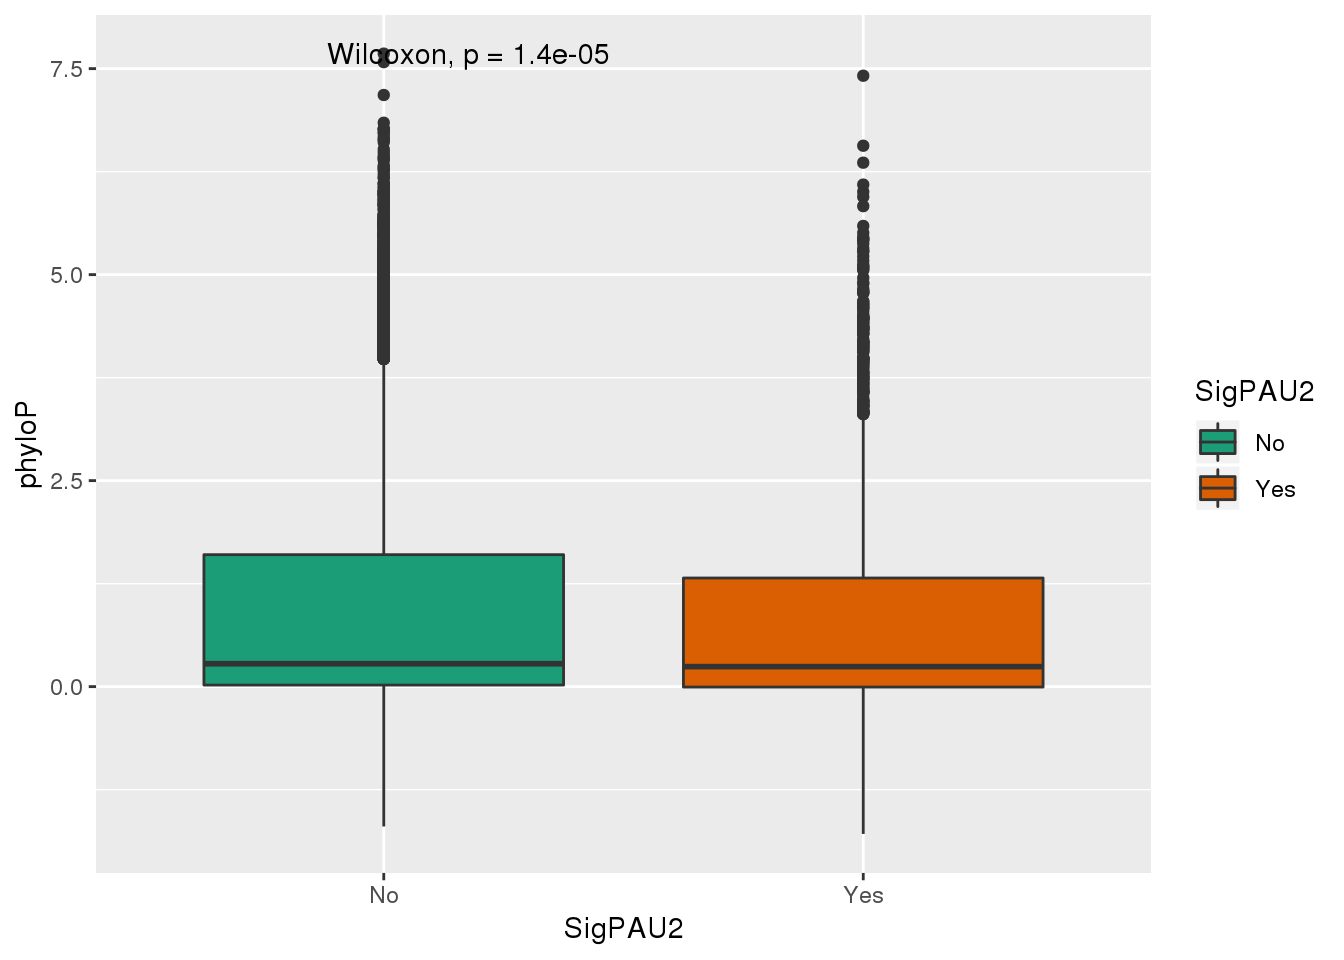
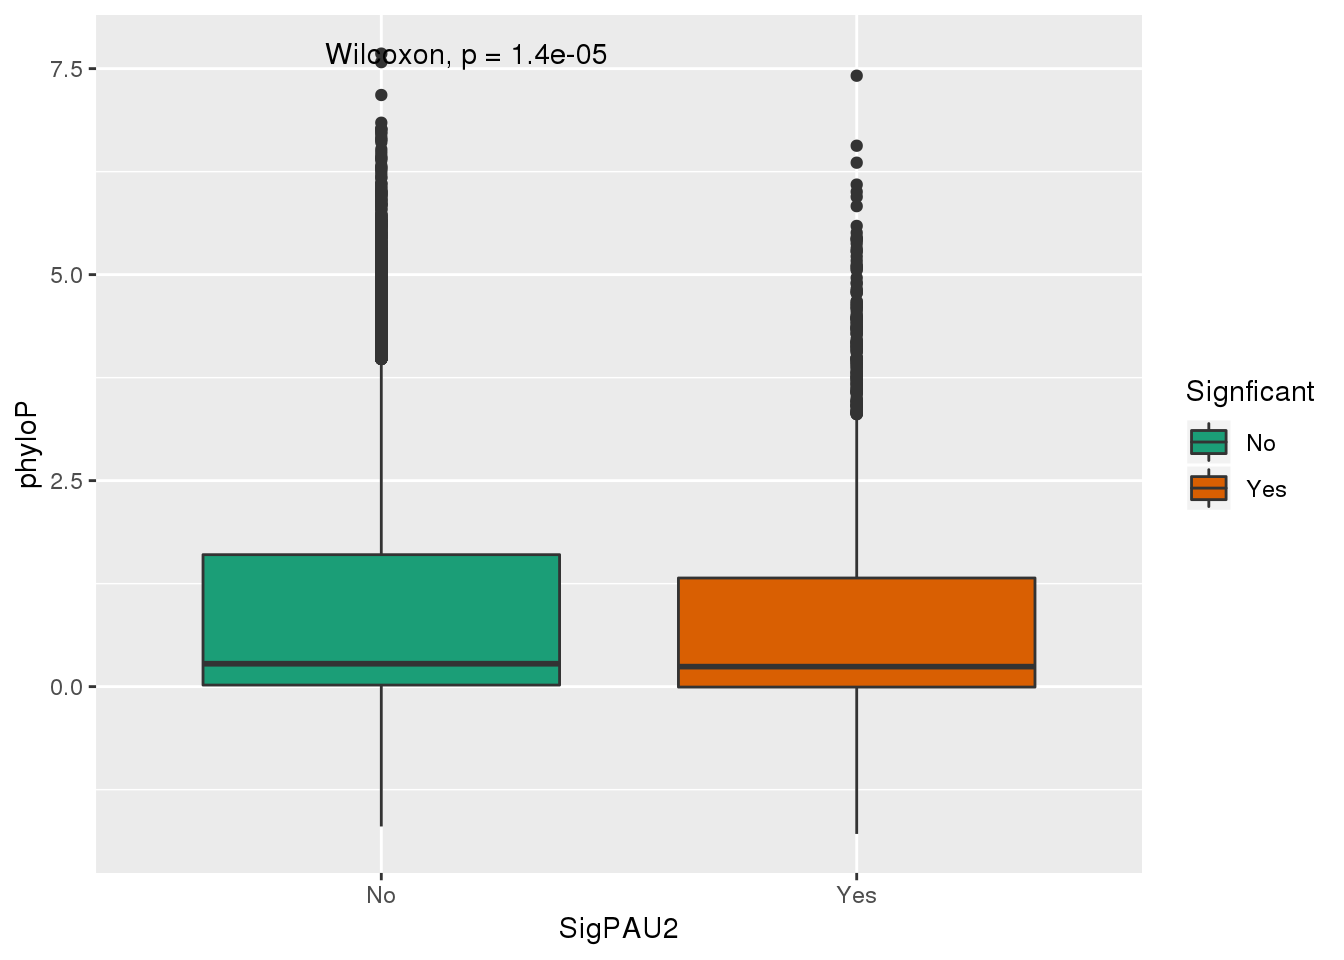
Build site.

diff --git a/docs/ExploredAPA_DF.html b/docs/ExploredAPA_DF.html
@@ -434,10 +434,10 @@ This reproducible <a href="http://rmarkdown.rstudio.com">R Markdown</a> analysis
 <div class="panel panel-default">
 <div class="panel-heading">
 <p class="panel-title">
-<a data-toggle="collapse" data-parent="#workflowr-checks" href="#strongRepositoryversionstrongahrefhttpsgithubcombrimittlemanComparativeAPAtree10d6e05599cd52e52dd01731f63567182ab7e22atargetblank10d6e05a"> <span class="glyphicon glyphicon-ok text-success" aria-hidden="true"></span> <strong>Repository version:</strong> <a href="https://github.com/brimittleman/Comparative_APA/tree/10d6e05599cd52e52dd01731f63567182ab7e22a" target="_blank">10d6e05</a> </a>
+<a data-toggle="collapse" data-parent="#workflowr-checks" href="#strongRepositoryversionstrongahrefhttpsgithubcombrimittlemanComparativeAPAtreefea5899863b1d9a63c78c78cc3ad0d0b00c7dfbdtargetblankfea5899a"> <span class="glyphicon glyphicon-ok text-success" aria-hidden="true"></span> <strong>Repository version:</strong> <a href="https://github.com/brimittleman/Comparative_APA/tree/fea5899863b1d9a63c78c78cc3ad0d0b00c7dfbd" target="_blank">fea5899</a> </a>
 </p>
 </div>
[2 lines of base64/hex data omitted]
 <div class="panel-body">
 <p>
 Great! You are using Git for version control. Tracking code development and connecting the code version to the results is critical for reproducibility. The version displayed above was the version of the Git repository at the time these results were generated. <br><br> Note that you need to be careful to ensure that all relevant files for the analysis have been committed to Git prior to generating the results (you can use <code>wflow_publish</code> or <code>wflow_git_commit</code>). workflowr only checks the R Markdown file, but you know if there are other scripts or data files that it depends on. Below is the status of the Git repository when the results were generated:
@@ -1071,6 +1071,7 @@ Unstaged changes:
     Modified:   analysis/annotationInfo.Rmd
     Modified:   analysis/comp2apaQTLPAS.Rmd
     Modified:   analysis/correlationPhenos.Rmd
+    Modified:   analysis/dAPAandapaQTL_DF.Rmd
     Modified:   analysis/establishCutoffs.Rmd
     Modified:   analysis/investigatePantro5.Rmd
     Modified:   analysis/multiMap.Rmd
@@ -1114,6 +1115,40 @@ Message
 </tr>
 </thead>
 <tbody>
+<tr>
+<td>
+Rmd
+</td>
+<td>
+<a href="https://github.com/brimittleman/Comparative_APA/blob/fea5899863b1d9a63c78c78cc3ad0d0b00c7dfbd/analysis/ExploredAPA_DF.Rmd" target="_blank">fea5899</a>
+</td>
+<td>
+brimittleman
+</td>
+<td>
+2020-01-26
+</td>
+<td>
+modify plots for CM
+</td>
+</tr>
+<tr>
+<td>
+html
+</td>
+<td>
+<a href="https://rawcdn.githack.com/brimittleman/Comparative_APA/55cf50b49387cf012b53c68269b5661964106831/docs/ExploredAPA_DF.html" target="_blank">55cf50b</a>
+</td>
+<td>
+brimittleman
+</td>
+<td>
+2020-01-26
+</td>
+<td>
+Build site.
+</td>
+</tr>
 <tr>
 <td>
 Rmd
@@ -1455,7 +1490,7 @@ mkdir ../data/DNDS
 <pre class="r"><code>phylores=read.table(&quot;../data/PhyloP/PAS_phyloP.txt&quot;, col.names = c(&quot;chr&quot;,&quot;start&quot;,&quot;end&quot;, &quot;phyloP&quot;), stringsAsFactors = F) %&gt;% drop_na()
 NucReswPhy=read.table(&quot;../data/DiffIso_Nuclear_DF/AllPAS_withGeneSig.txt&quot;, header = T, stringsAsFactors = F) %&gt;% inner_join(phylores, by=c(&quot;chr&quot;,&quot;start&quot;,&quot;end&quot;))</code></pre>
 <p>40756 have results of the 40776 Plot:</p>
-<pre class="r"><code>ggplot(NucReswPhy,aes(y=phyloP, x=SigPAU2,fill=SigPAU2)) + geom_boxplot() + stat_compare_means()+ scale_fill_brewer(palette = &quot;Dark2&quot;)</code></pre>
+<pre class="r"><code>ggplot(NucReswPhy,aes(y=phyloP, x=SigPAU2,fill=SigPAU2)) + geom_boxplot() + stat_compare_means()+ scale_fill_brewer(palette = &quot;Dark2&quot;, name=&quot;Signficant&quot;)</code></pre>
 <p><img src="figure/ExploredAPA_DF.Rmd/unnamed-chunk-12-1.png" width="672" style="display: block; margin: auto;" /></p>
 <p>
 <button type="button" class="btn btn-default btn-xs btn-workflowr btn-workflowr-fig" data-toggle="collapse" data-target="#fig-unnamed-chunk-12-1">
@@ -1494,7 +1529,7 @@ brimittleman
 </table>
 </div>
 </div>
-<pre class="r"><code>ggplot(NucReswPhy,aes(x=phyloP, by=SigPAU2, fill=SigPAU2)) + geom_density(alpha=.5) + scale_fill_brewer(palette = &quot;Dark2&quot;)</code></pre>
+<pre class="r"><code>ggplot(NucReswPhy,aes(x=phyloP, by=SigPAU2, fill=SigPAU2)) + geom_density(alpha=.5) + scale_fill_brewer(palette = &quot;Dark2&quot;, name=&quot;Signficant PAS&quot;) + labs(title=&quot;Mean PhyloP scores for tested PAS&quot;) + annotate(&quot;text&quot;,label=&quot;Wilcoxan, p=1.4e -5&quot;,x=6,y=.75)</code></pre>
 <p><img src="figure/ExploredAPA_DF.Rmd/unnamed-chunk-13-1.png" width="672" style="display: block; margin: auto;" /></p>
 <p>
 <button type="button" class="btn btn-default btn-xs btn-workflowr btn-workflowr-fig" data-toggle="collapse" data-target="#fig-unnamed-chunk-13-1">
@@ -1626,10 +1661,85 @@ write.table(genes, &quot;../data/PhyloP/NuclearSigGenes.bed&quot;, col.names = F
 <pre class="r"><code>phyloresG=read.table(&quot;../data/PhyloP/PAS_phyloP_genes.txt&quot;, col.names = c(&quot;chr&quot;,&quot;start&quot;,&quot;end&quot;, &quot;phyloP&quot;), stringsAsFactors = F) %&gt;% drop_na()
 GenesPhy=genesWithSig %&gt;% inner_join(phyloresG, by=c(&quot;chr&quot;,&quot;start&quot;,&quot;end&quot;))</code></pre>
 <p>I lose 2237 from NAs in the values.</p>
-<pre class="r"><code>ggplot(GenesPhy,aes(x=phyloP, by=Sig, fill=Sig)) + geom_density(alpha=.5) + scale_fill_brewer(palette = &quot;Dark2&quot;)</code></pre>
+<pre class="r"><code>ggplot(GenesPhy,aes(x=phyloP, by=Sig, fill=Sig)) + geom_density(alpha=.5)+ scale_fill_brewer(palette = &quot;Dark2&quot;, name=&quot;Gene with \nSignificant PAS&quot;) + labs(title=&quot;Mean PhyloP scores for tested Genes&quot;) + annotate(&quot;text&quot;,label=&quot;Wilcoxan, p=2.6.4e -12&quot;,x=4,y=1.5)</code></pre>
 <p><img src="figure/ExploredAPA_DF.Rmd/unnamed-chunk-22-1.png" width="672" style="display: block; margin: auto;" /></p>
+<p>
+<button type="button" class="btn btn-default btn-xs btn-workflowr btn-workflowr-fig" data-toggle="collapse" data-target="#fig-unnamed-chunk-22-1">
+Past versions of unnamed-chunk-22-1.png
+</button>
+</p>
+<div id="fig-unnamed-chunk-22-1" class="collapse">
+<div class="table-responsive">
+<table class="table table-condensed table-hover">
+<thead>
+<tr>
+<th>
+Version
+</th>
+<th>
+Author
+</th>
+<th>
+Date
+</th>
+</tr>
+</thead>
+<tbody>
+<tr>
+<td>
+<a href="https://github.com/brimittleman/Comparative_APA/blob/55cf50b49387cf012b53c68269b5661964106831/docs/figure/ExploredAPA_DF.Rmd/unnamed-chunk-22-1.png" target="_blank">55cf50b</a>
+</td>
+<td>
+brimittleman
+</td>
+<td>
+2020-01-26
+</td>
+</tr>
+</tbody>
+</table>
+</div>
+</div>
 <pre class="r"><code>ggplot(GenesPhy,aes(y=phyloP, x=Sig,fill=Sig)) + geom_boxplot() + stat_compare_means()+ scale_fill_brewer(palette = &quot;Dark2&quot;)</code></pre>
-<p><img src="figure/ExploredAPA_DF.Rmd/unnamed-chunk-22-2.png" width="672" style="display: block; margin: auto;" /> These are also genes with a shift. See if more likely to have - value.</p>
+<p><img src="figure/ExploredAPA_DF.Rmd/unnamed-chunk-22-2.png" width="672" style="display: block; margin: auto;" /></p>
+<p>
+<button type="button" class="btn btn-default btn-xs btn-workflowr btn-workflowr-fig" data-toggle="collapse" data-target="#fig-unnamed-chunk-22-2">
+Past versions of unnamed-chunk-22-2.png
+</button>
+</p>
+<div id="fig-unnamed-chunk-22-2" class="collapse">
+<div class="table-responsive">
+<table class="table table-condensed table-hover">
+<thead>
+<tr>
+<th>
+Version
+</th>
+<th>
+Author
+</th>
+<th>
+Date
+</th>
+</tr>
+</thead>
+<tbody>
+<tr>
+<td>
+<a href="https://github.com/brimittleman/Comparative_APA/blob/55cf50b49387cf012b53c68269b5661964106831/docs/figure/ExploredAPA_DF.Rmd/unnamed-chunk-22-2.png" target="_blank">55cf50b</a>
+</td>
+<td>
+brimittleman
+</td>
+<td>
+2020-01-26
+</td>
+</tr>
+</tbody>
+</table>
+</div>
+</div>
+<p>These are also genes with a shift. See if more likely to have - value.</p>
 <pre class="r"><code>x=nrow(GenesPhy %&gt;% filter(Sig==&quot;Yes&quot;, phyloP&lt;0))
 m= nrow(GenesPhy %&gt;% filter(phyloP&lt;0))
 n=nrow(GenesPhy %&gt;% filter(phyloP&gt;=0))
@@ -1671,7 +1781,45 @@ summary(NucResDNDS_fix$DNDSratio)</code></pre>
 2 yes           1827</code></pre>
 <p>Plot this.</p>
 <pre class="r"><code>ggplot(NucResDNDS_fix,aes(y=log10(DNDSratio+1), x=SigPASinGene, fill=SigPASinGene))+ geom_boxplot() + stat_compare_means( label.y.npc = &quot;middle&quot;) + scale_fill_brewer(palette = &quot;Dark2&quot;) + labs(x=&quot;dAPA in Nuclear&quot;) + annotate(&quot;text&quot;, label=&quot;Yes=1827 \n No=5481&quot;, y=1.8,x=2)</code></pre>
-<p><img src="figure/ExploredAPA_DF.Rmd/unnamed-chunk-27-1.png" width="672" style="display: block; margin: auto;" /> I can ask if they are more likely to be above 1. I can do this with a hypergeo.</p>
+<p><img src="figure/ExploredAPA_DF.Rmd/unnamed-chunk-27-1.png" width="672" style="display: block; margin: auto;" /></p>
+<p>
+<button type="button" class="btn btn-default btn-xs btn-workflowr btn-workflowr-fig" data-toggle="collapse" data-target="#fig-unnamed-chunk-27-1">
+Past versions of unnamed-chunk-27-1.png
+</button>
+</p>
+<div id="fig-unnamed-chunk-27-1" class="collapse">
+<div class="table-responsive">
+<table class="table table-condensed table-hover">
+<thead>
+<tr>
+<th>
+Version
+</th>
+<th>
+Author
+</th>
+<th>
+Date
+</th>
+</tr>
+</thead>
+<tbody>
+<tr>
+<td>
+<a href="https://github.com/brimittleman/Comparative_APA/blob/55cf50b49387cf012b53c68269b5661964106831/docs/figure/ExploredAPA_DF.Rmd/unnamed-chunk-27-1.png" target="_blank">55cf50b</a>
+</td>
+<td>
+brimittleman
+</td>
+<td>
+2020-01-26
+</td>
+</tr>
+</tbody>
+</table>
+</div>
+</div>
+<p>I can ask if they are more likely to be above 1. I can do this with a hypergeo.</p>
 <pre class="r"><code>x=nrow(NucResDNDS_fix %&gt;% filter(SigPASinGene==&quot;yes&quot;, DNDSratio&gt;=1))
 m= nrow(NucResDNDS_fix %&gt;% filter(DNDSratio&gt;=1))
 n=nrow(NucResDNDS_fix %&gt;% filter(DNDSratio&lt;1))
